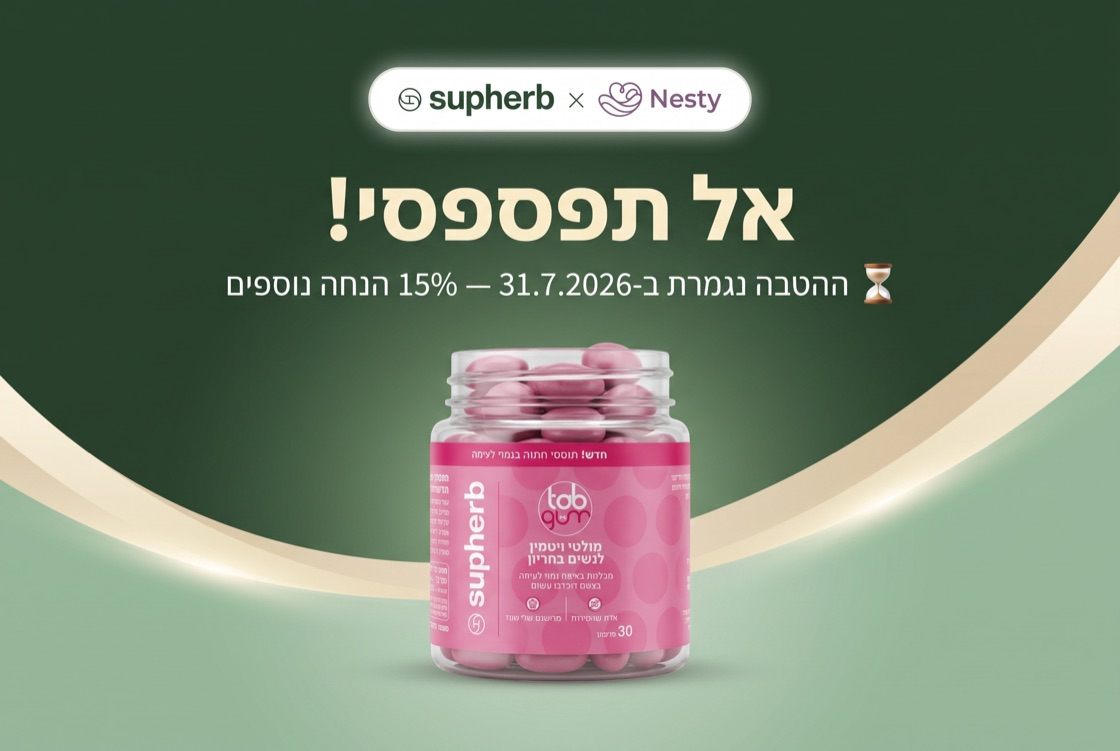
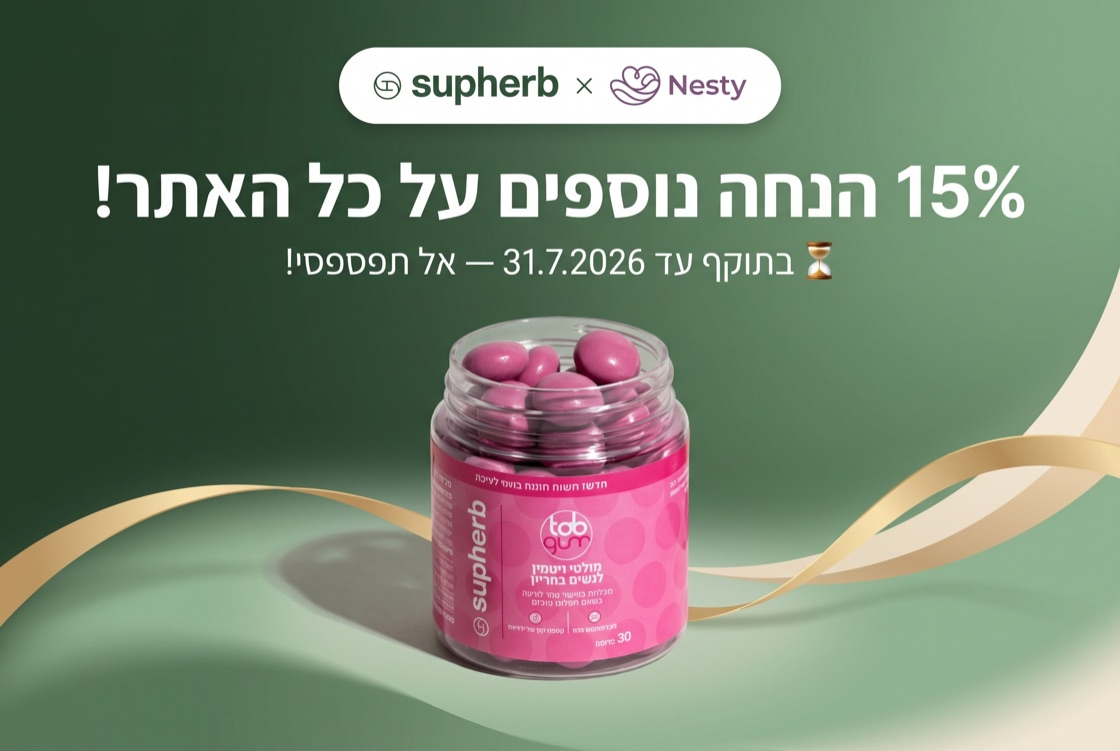
Reminder hero image: headline reads "15% הנחה נוספים על כל האתר!"
Swap the generated hero's main headline to the exact requested copy, with
the urgency/deadline line ("בתוקף עד 31.7.2026 — אל תפספסי!") as the
subtext below it. Updated alt text to match.

diff --git a/nesty-web/supabase/functions/send-collab-gift/index.ts b/nesty-web/supabase/functions/send-collab-gift/index.ts
@@ -286,7 +286,7 @@ function buildReminderEmailHtml(firstName: string, gifts: string, unsubscribeUrl
              baked in), so no redundant CSS headline needed below. -->
         <tr>
           <td style="border-radius:24px;overflow:hidden;">
-            <img src="https://nestyil.com/demo/supherb-reminder-hero.jpg" alt="אל תפספסי! ההטבה נגמרת ב-31.7.2026 — 15% הנחה נוספים בסופהרב"
+            <img src="https://nestyil.com/demo/supherb-reminder-hero.jpg" alt="15% הנחה נוספים על כל האתר! בתוקף עד 31.7.2026 — אל תפספסי"
                  width="560" style="display:block;width:100%;max-width:560px;height:auto;border-radius:24px;" />
           </td>
         </tr>
